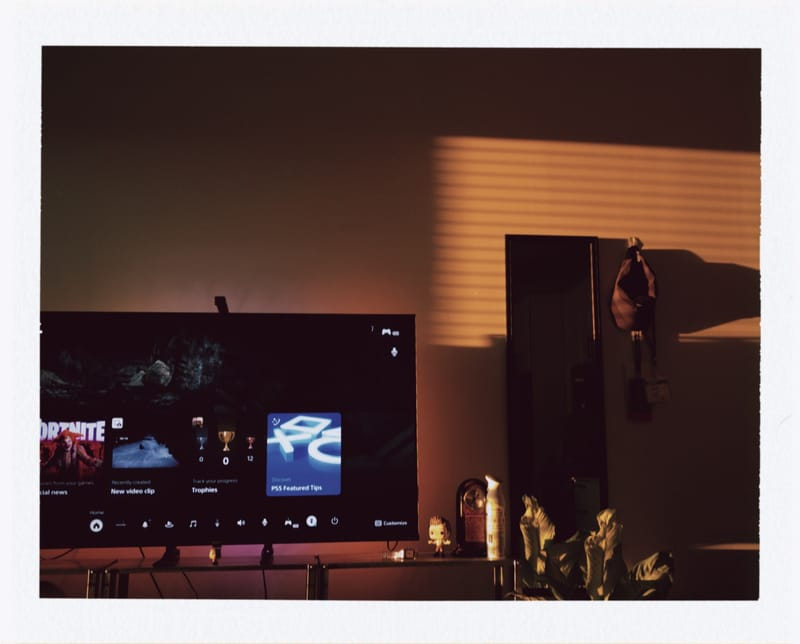
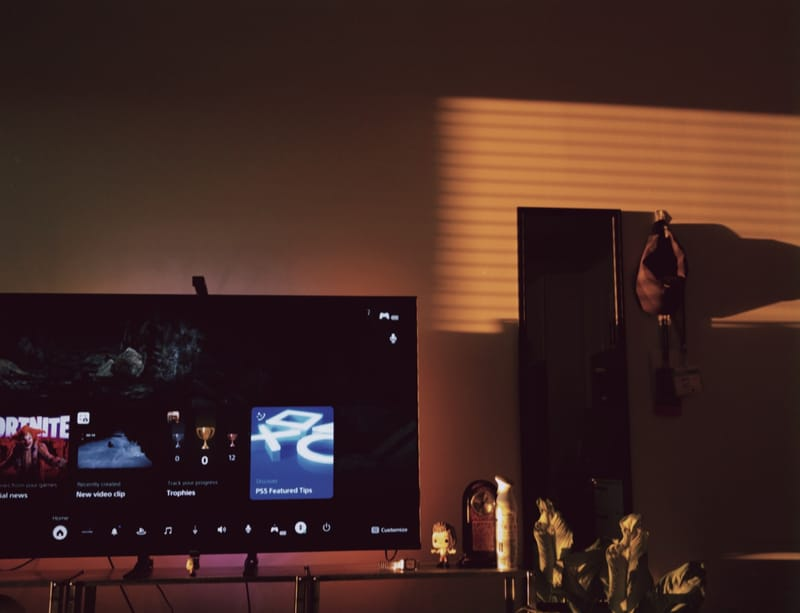
feat(artist): dark editorial tokens, cropped film frames, tags and Indianapolis copy
- Creative persona tokens switch to the v2 dark palette (ink-faint/bg 5.29,
  accent/bg 5.01, accent-ink/accent 5.01); theme test pins the palette.
- prepare-media auto-crops a baked-in near-white border (>=8 px on all four
  sides, tolerating a 1-3 px edge seam and measuring the 2 px inset from the
  end of the scanned fade). r1-02 and r1-04 regenerate at 1600x1226.
- creative.tags, Indianapolis hero line and now line.

Claude-Session: https://claude.ai/code/session_01XV9GjxdCua9VycJYd29WRD

diff --git a/src/data/content.ts b/src/data/content.ts
@@ -276,6 +276,8 @@ export interface Draft {
 export const creative: {
   hero: { image: Frame; line: string; cta: string };
   statement: string;
+  /** Mono pills under the statement. */
+  tags: string[];
   now: string;
   rolls: Roll[];
   music: {
@@ -295,12 +297,13 @@ export const creative: {
       height: 1125,
       alt: "A total solar eclipse at the diamond-ring moment.",
     },
-    line: "Photographs and music. Greencastle, Indiana · Dhaka.",
+    line: "Indianapolis, IN · 35mm & digital · 2024–26",
     cta: "See the rolls",
   },
   statement:
     "I photograph what light does when nobody is posing: rooms at the end of the day, stages lit red, a street in fog, one eclipse. Between frames I play guitar.",
-  now: "shooting on 35mm around Greencastle · learning slide guitar",
+  tags: ["35mm", "Indianapolis", "slide guitar"],
+  now: "shooting on 35mm around Indianapolis · learning slide guitar",
   rolls: [
     {
       id: "light",
@@ -315,7 +318,7 @@ export const creative: {
         {
           src: "/gallery/r1-02.jpg",
           width: 1600,
-          height: 1287,
+          height: 1226,
           alt: "A living room with a TV at golden hour, sunlight striping the wall.",
         },
         {
@@ -327,7 +330,7 @@ export const creative: {
         {
           src: "/gallery/r1-04.jpg",
           width: 1600,
-          height: 1287,
+          height: 1226,
           alt: "A dim living room with a glass coffee table and a checkered rug.",
         },
         {

diff --git a/src/index.css b/src/index.css
@@ -27,18 +27,18 @@
   --color-accent-ink: #0a0d13;
 }
 
-/* CREATIVE persona — warm paper, burnt orange. Overrides the raw properties. */
+/* CREATIVE persona — dark editorial, burnt orange. Overrides the raw properties. */
 html[data-persona="creative"] {
-  --color-bg: #f6f1e7;
-  --color-surface: #fffcf5;
-  --color-surface-2: #efe7d8;
-  --color-line: #e0d5c0;
-  --color-ink: #1d1a16;
-  --color-ink-soft: #5c554a;
-  --color-ink-faint: #6b6253;
-  --color-accent: #b9371a;
-  --color-accent-soft: #d04a2a;
-  --color-accent-ink: #fffcf5;
+  --color-bg: #0e0d0b;
+  --color-surface: #161412;
+  --color-surface-2: #1f1c19;
+  --color-line: #2a2622;
+  --color-ink: #f3eee4;
+  --color-ink-soft: #c9c1b3;
+  --color-ink-faint: #8e8477;
+  --color-accent: #e0522f;
+  --color-accent-soft: #f0663c;
+  --color-accent-ink: #0e0d0b;
 }
 
 html {

diff --git a/src/data/content.test.ts b/src/data/content.test.ts
@@ -49,9 +49,10 @@ describe("creative content model", () => {
   });
 
   it("carries the spec copy", () => {
-    expect(creative.hero.line).toBe("Photographs and music. Greencastle, Indiana · Dhaka.");
+    expect(creative.hero.line).toBe("Indianapolis, IN · 35mm & digital · 2024–26");
     expect(creative.hero.cta).toBe("See the rolls");
-    expect(creative.now).toBe("shooting on 35mm around Greencastle · learning slide guitar");
+    expect(creative.now).toBe("shooting on 35mm around Indianapolis · learning slide guitar");
+    expect(creative.tags).toEqual(["35mm", "Indianapolis", "slide guitar"]);
     expect(creative.music.handle).toBe("@labib.onrecord");
     expect(creative.contact.headline).toBe("Say hello.");
   });

diff --git a/src/theme.test.ts b/src/theme.test.ts
@@ -50,3 +50,21 @@ describe("creative persona contrast (WCAG AA, normal text)", () => {
     expect(contrast(accentInk, accent)).toBeGreaterThanOrEqual(4.5);
   });
 });
+
+describe("creative persona palette (spec v2: dark editorial)", () => {
+  it("uses the v2 tokens", () => {
+    const expected = {
+      bg: "#0e0d0b",
+      surface: "#161412",
+      "surface-2": "#1f1c19",
+      line: "#2a2622",
+      ink: "#f3eee4",
+      "ink-soft": "#c9c1b3",
+      "ink-faint": "#8e8477",
+      accent: "#e0522f",
+      "accent-soft": "#f0663c",
+      "accent-ink": "#0e0d0b",
+    };
+    for (const [name, hex] of Object.entries(expected)) expect(creativeToken(name).toLowerCase()).toBe(hex);
+  });
+});
